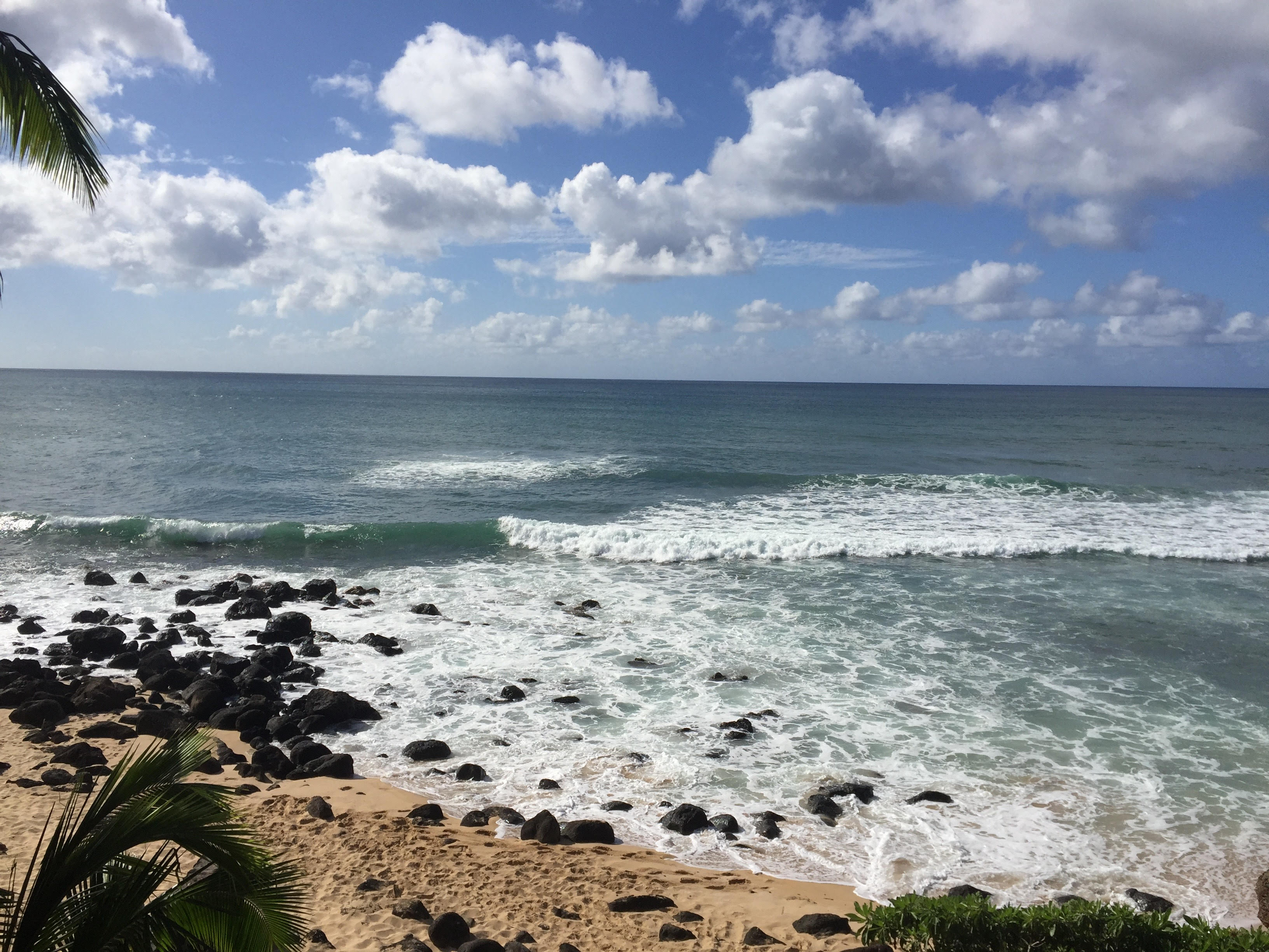
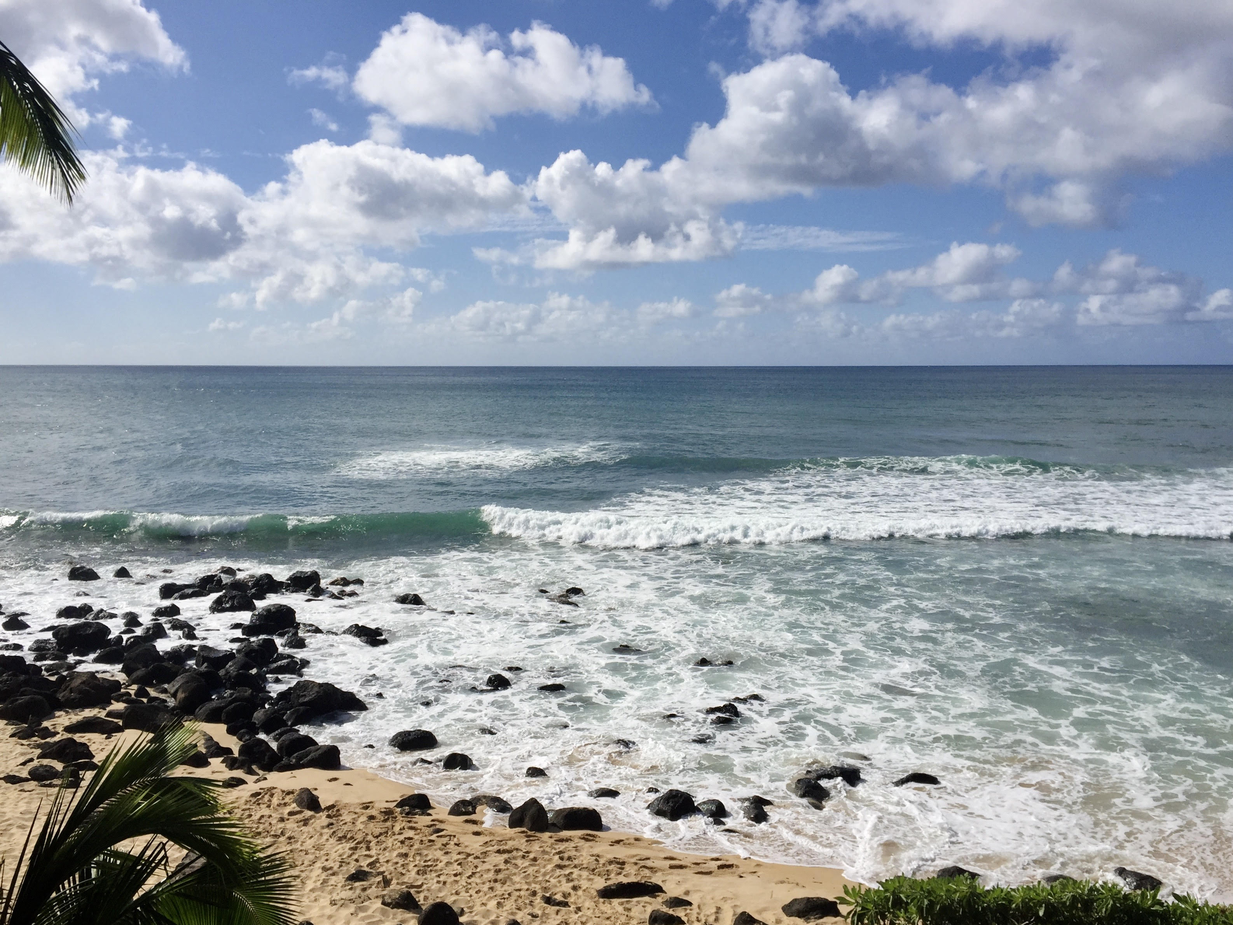
update music page photo

diff --git a/src/components/Jumbotron/jumbotron.css b/src/components/Jumbotron/jumbotron.css
@@ -26,7 +26,7 @@
 
 .jumbotron-music {
   background: white;
-  background-image: url("../../images/hawaii/honolulu-cropped.png");
+  background-image: url("../../images/hawaii/ocean-1.jpg");
   background-position: center;
   background-repeat: no-repeat;
   background-size: cover;
